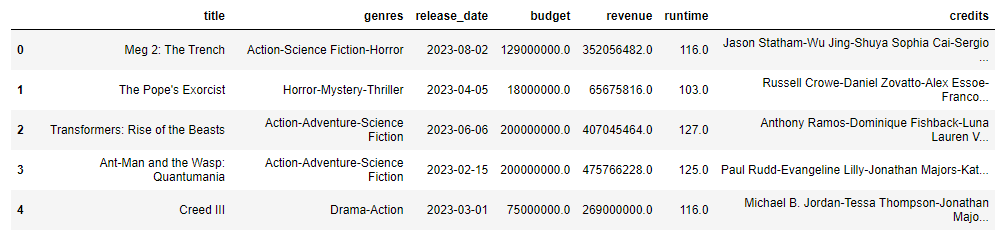
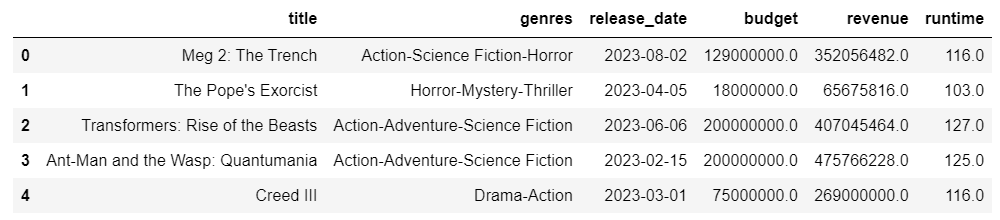
Adding Progress on Project 1

diff --git a/projects/movie_analysis.html b/projects/movie_analysis.html
@@ -35,7 +35,7 @@
 							<h1>Crafting the Most Successful Movie of All Time</h1>
 							<span class="image main"><img src="../images/movies_banner.jpg" alt="" /></span>
 							<p>The years of 2022 and 2023 will haunt the nightmares of major movie studios for decades to come. Not only are two unions striking (effectively grinding 
-								the industry to a halt), a record number of movie releases have failed to turn a profit. It is estimated that Disney has lost 
+								the industry to a halt), a record number of movie releases have failed to turn a profit. It's estimated that Disney has lost 
 								a whopping <a href="https://www.youtube.com/watch?v=bNgbuv6wVPc" target="_blank"> $890 Million </a> on only eight movies released in the span of 
 								just 12 months! And Disney is certainly not alone. DreamWorks spent $70 Million on an animated movie called "Teenage Kraken" and only managed a 
 								poor $40 Million at the box office. And after a staggering 9 years of production hell, Warner Bros finally released "The Flash" on a $200 Million 
@@ -44,7 +44,7 @@
 
 							<p>In light of the disaster that is Hollywood right now, I thought it would be a fun exercise to scientifically craft the most profitable film possible. 
 								Maybe the big studios will take my advice on their next movies! When they're allowed to film again, that is. Our experiment starts with a database 
-								of 722,714 movies, which anybody can find here: <a href="https://www.kaggle.com/datasets/akshaypawar7/millions-of-movies" target="_blank"> 
+								of movies, which anybody can find here: <a href="https://www.kaggle.com/datasets/akshaypawar7/millions-of-movies" target="_blank"> 
 								Movies Daily Update Dataset </a>. This dataset includes twenty features, which we will have to whittle down until we are left with only the most important. 
 							</p>
 
@@ -64,6 +64,7 @@
 									for them too! </li>
 								<li><b>vote_average:</b> See popularity.</li>
 								<li><b>vote_count:</b> See popularity.</li>
+								<li><b>credts:</b> A list of actors involved with the film. </li>
 								<li><b>poster_path:</b> A route to find the poster for the movie. As you can imagine, not useful. </li>
 								<li><b>keywords:</b> A list of words/phrases that describe the movie. </li>
 								<li><b>backdrop_path:</b> See poster_path. </li>
@@ -72,10 +73,10 @@
 							</ul>
 							
 							<p style="margin:0;">
-							Once we filter our data for english movies that have been released and drop the extraneous columns, we can focus on the features that will actually impact 
-								our analysis. Let's take a closer look at them right now. The first item of business is to inspect our three numerical features: budget, revenue, 
-								and runtime, which we can do with the describe() function.
-								<span class="image half"><img src="../images/movie_analysis/describe1.png" alt="" /></span>
+							Once we filter our data to only inlcude english movies that have been released, we drop the extraneous columns and then focus on the 
+								features that will actually impact our analysis. The first item of business is to 
+								inspect our three numerical features: budget, revenue, and runtime, which we can do with the describe() function.
+								<span class="image half center"><img src="../images/movie_analysis/describe1.png" alt="" /></span>
 							Wow, does this data need some work. 
 								<ul>
 									<li>To start, lets limit our movies to between 
@@ -101,12 +102,22 @@
 										to drop all null rows. At least we have uber-clean data now, right?   
 									</li>
 								</ul>
+							</p>
+							<p style="margin: 0;">
+								Next on the list is the conversion of our release_date and genre features! Both of these features started as a string (a group of
+								characters) with individual entries separated by dashes. It will be much easier to work with the release_date data if we convert it
+								to a datetime object. Likewise, it will be much easier to work with the genre data if we convert each entry into its own list. <br> <br>
 								Now, we have just one more step before the cool graphs, I promise! It is generally agreed that a movie must make 
 								<a href="https://gizmodo.com/how-much-money-does-a-movie-need-to-make-to-be-profitab-5747305#:~:text=a%20rule%20of%20thumb%20seems%20to%20be%20that%20the%20film%20needs%20to%20make%20twice%20its%20production%20budget%20globally." target="_blank">
-									twice it's budget in revenue to be profitable</a>, so I will be adding a column to denote whether a movie has passed this threshold. Using this new
-									feature, I can make a graph like this: 
+									twice it's budget in revenue to be profitable</a>, so I will be adding a column to denote whether a movie has passed this 
+									threshold. This is what our data looks like now that we're done processing it: 
+									<span class="image main"><img src="../images/movie_analysis/head2.png" alt="" /></span>
+									Using this new feature, I can make a graph like this! 
 							</p>
-							<span class="image center"><img src="../images/movie_analysis/budget_vs_revenue.png" alt="" /></span>
+							<span class="image center graph" ><img src="../images/movie_analysis/budget_vs_revenue.png" alt="" /></span>
+							<span class="image center graph" ><img src="../images/movie_analysis/runtimes_vs_revenue.png" alt="" /></span>
+							<span class="image center graph" ><img src="../images/movie_analysis/successful_movies_in_each_month.png" alt="" /></span>
+							<span class="image center graph" ><img src="../images/movie_analysis/successful_movies_in_each_genre.png" alt="" /></span>
 						
 										
 						</div>

diff --git a/assets/css/portfolio.css b/assets/css/portfolio.css
@@ -169,11 +169,12 @@ input, select, textarea {
 	}
 
 	h1 {
-		font-size: 2.75em;
+		font-size: 2.6em;
 		font-weight: 700;
 		line-height: 1.3;
 		margin: 0 0 0.5em 0;
 		letter-spacing: -0.035em;
+		text-align: center;
 	}
 
 		h1 a {
@@ -2084,16 +2085,11 @@ input, select, textarea {
 		position: relative;
 	}
 
-	.image.center{
-		margin-left: auto;
-		margin-right: auto;
-	}
-
 		.image img {
 			border-radius: 4px;
 			display: block;
-			margin-left: auto;
-			margin-right: auto;
+			margin: auto;
+			margin-bottom: 1em;
 		}
 
 		.image.left, .image.right {
@@ -2125,12 +2121,28 @@ input, select, textarea {
 			.image.fit img {
 				width: 100%;
 			}
-		
+
 		.image.half {
 			display: block;
-			margin: 1em 0em;
-			width: 50%;;
+			margin: 0 0 2em 0;
+			width: 50%;
 		}
+		
+		.image.center {
+			margin: auto;
+			width: 100%;
+			display: flex;
+			align-items: center;
+			justify-content: center;
+			  
+		}
+		.image.graph img{
+			width: 75%;
+			  
+		}
+			.image.main img {
+				width: 10em;
+			}
 
 		.image.main {
 			display: block;
